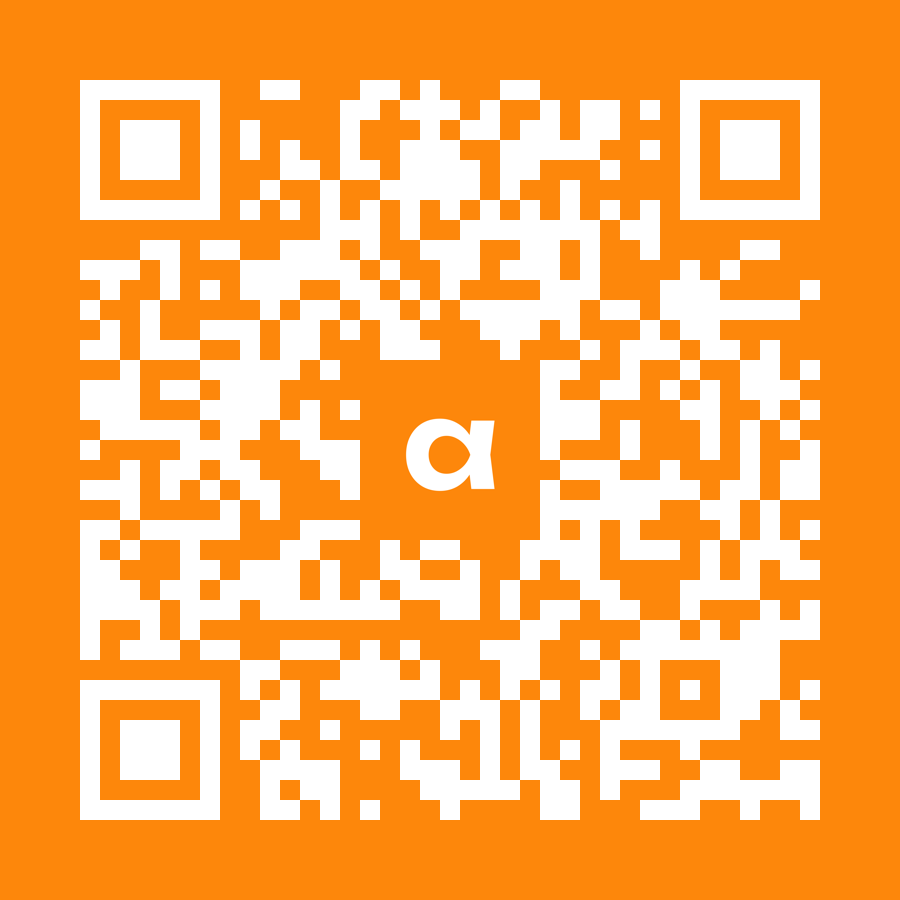
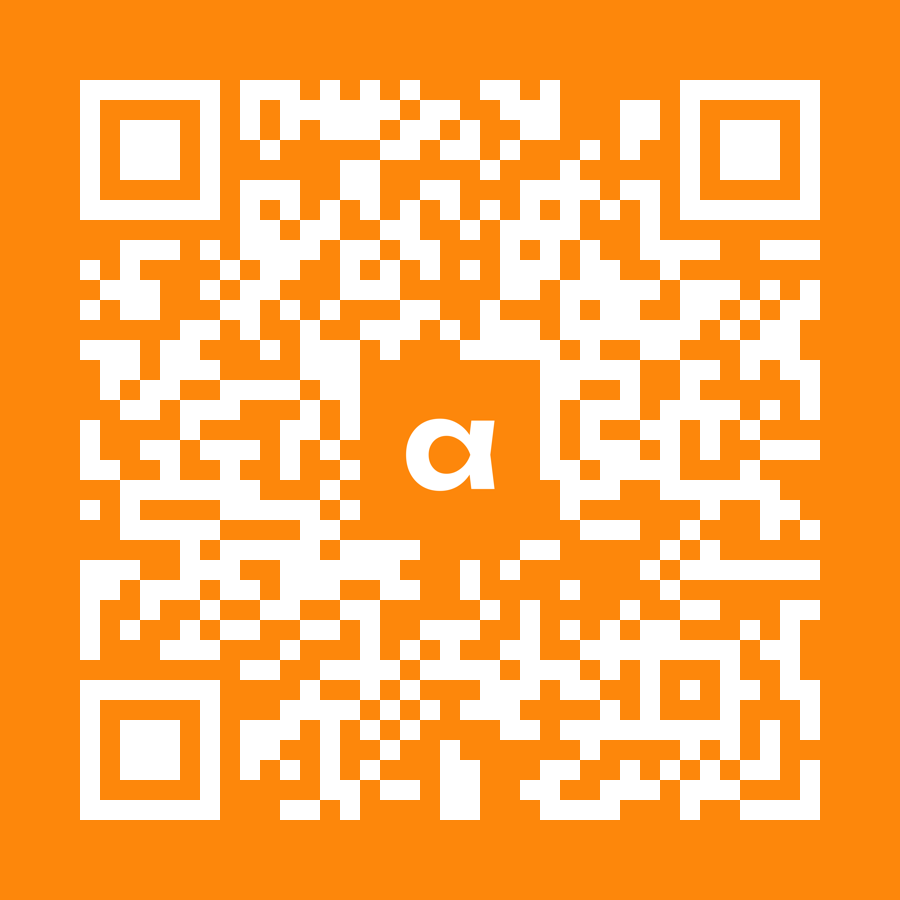
Update links to direct to app store

Changed region(s): [[0.0622, 0.0622, 0.9333, 0.9333]]

diff --git a/src/app/components/header.tsx b/src/app/components/header.tsx
@@ -1,24 +1,44 @@
-"use client"
+"use client";
 
-import Link from 'next/link';
-import theme from '../config/theme';
-import Button from './button';
-
+import Link from "next/link";
+import theme from "../config/theme";
+import Button from "./button";
 
 export default function Header() {
-
   const arrowIcon = () => {
     return (
-      <svg xmlns="http://www.w3.org/2000/svg" fill="none" viewBox="0 0 24 24" strokeWidth="2.2" stroke="currentColor" className="size-6">
-        <path stroke-linecap="round" stroke-linejoin="round" d="M13.5 4.5 21 12m0 0-7.5 7.5M21 12H3" />
+      <svg
+        xmlns="http://www.w3.org/2000/svg"
+        fill="none"
+        viewBox="0 0 24 24"
+        strokeWidth="2.2"
+        stroke="currentColor"
+        className="size-6"
+      >
+        <path
+          stroke-linecap="round"
+          stroke-linejoin="round"
+          d="M13.5 4.5 21 12m0 0-7.5 7.5M21 12H3"
+        />
       </svg>
     );
   };
 
   const burgerMenuIcon = () => {
     return (
-      <svg xmlns="http://www.w3.org/2000/svg" fill="none" viewBox="0 0 24 24" strokeWidth={1.5} stroke="currentColor" className="size-6">
-        <path strokeLinecap="round" strokeLinejoin="round" d="M3.75 9h16.5m-16.5 6.75h16.5" />
+      <svg
+        xmlns="http://www.w3.org/2000/svg"
+        fill="none"
+        viewBox="0 0 24 24"
+        strokeWidth={1.5}
+        stroke="currentColor"
+        className="size-6"
+      >
+        <path
+          strokeLinecap="round"
+          strokeLinejoin="round"
+          d="M3.75 9h16.5m-16.5 6.75h16.5"
+        />
       </svg>
     );
   };
@@ -29,33 +49,42 @@ export default function Header() {
       <div className="px-4 sm:px-6 lg:px-8">
         <div className="flex items-center justify-between h-16">
           <div className="flex-shrink-0">
-            <Link href="/" className="text-black font-medium text-3xl tracking-wide">
+            <Link
+              href="/"
+              className="text-black font-medium text-3xl tracking-wide"
+            >
               AERIUM
             </Link>
           </div>
 
-            <div className="hidden md:flex items-center space-x-4">
-              <Link href="/waitlist">
-                <Button
-                  text="Sign up"
-                  fontSize="large"
-                  backgroundColor={theme.colors.orange}
-                  textColor={theme.colors.black}
-                  hoverColor="#E67A00"
-                  icon={arrowIcon()}
-                />
-              </Link>
-              {/* <Button
+          <div className="hidden md:flex items-center space-x-4">
+            <Link
+              href="https://apps.apple.com/ca/app/id6751736126"
+              target="_blank"
+            >
+              <Button
+                text="Sign up"
+                fontSize="large"
+                backgroundColor={theme.colors.orange}
+                textColor={theme.colors.black}
+                hoverColor="#E67A00"
+                icon={arrowIcon()}
+              />
+            </Link>
+            {/* <Button
                 text="Log in"
                 backgroundColor={theme.colors.black}
                 textColor="white"
                 hoverColor="#333333"
               /> */}
-            </div>
+          </div>
 
           {/* Mobile Navigation */}
           <div className="md:hidden flex items-center space-x-4">
-            <Link href="/waitlist">
+            <Link
+              href="https://apps.apple.com/ca/app/id6751736126"
+              target="_blank"
+            >
               <Button
                 text="Sign up"
                 backgroundColor={theme.colors.orange}
